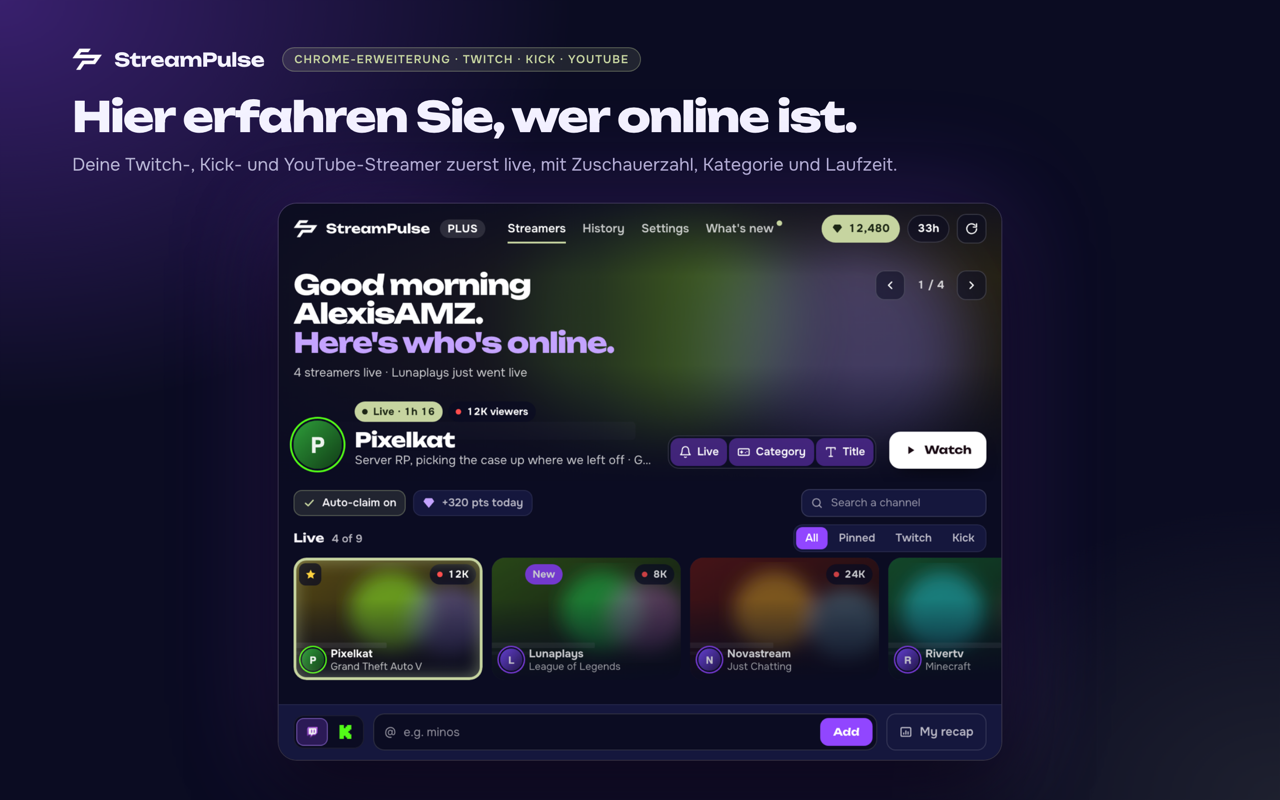
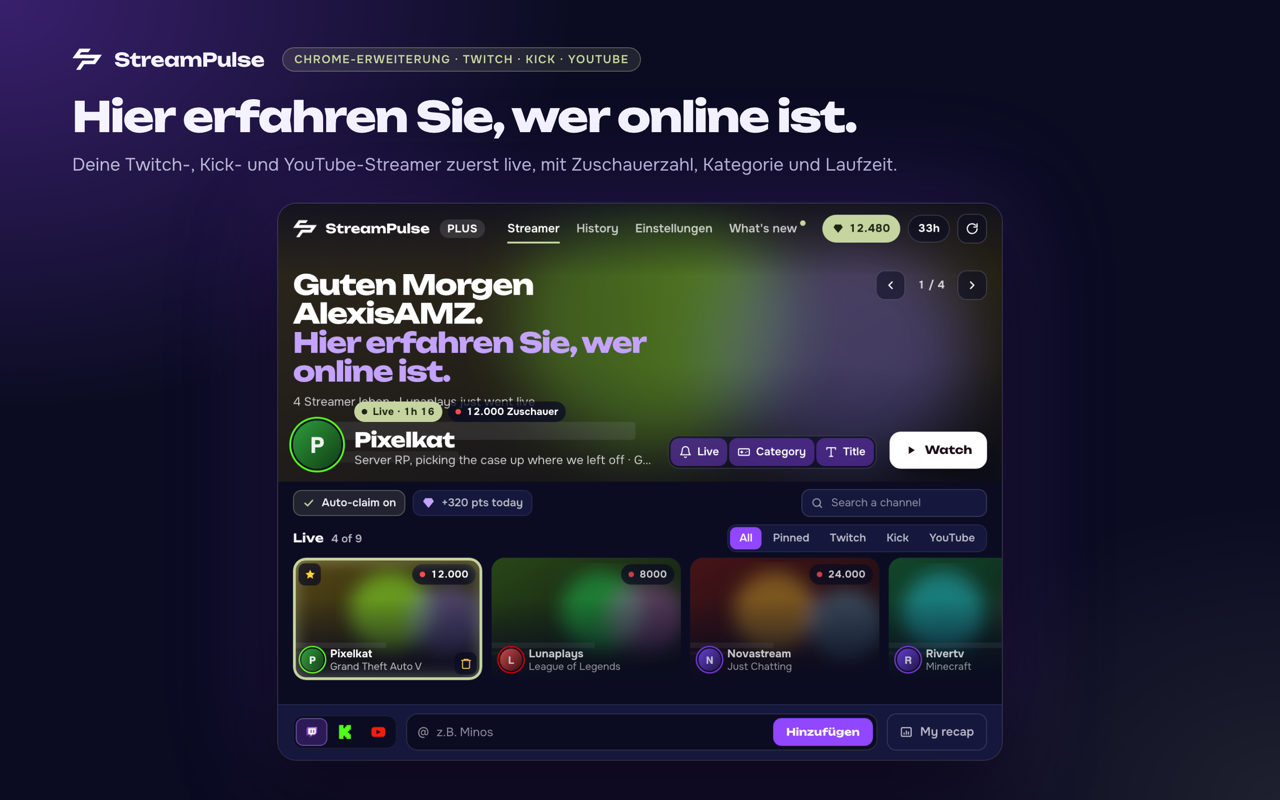
fix: un seul écrivain du badge, et capture du tableau de bord rendue par le banc
Badge
- Deux sources écrivaient chrome.action sans se concerter : le nombre de
  streamers en direct, et la pastille « notes de version non lues ». Cette
  dernière écrivait aussi une chaîne vide quand les notes étaient lues, et
  syncUpdateBadge() tourne à chaque démarrage du service worker : en MV3 il
  redémarre sans cesse, donc le compteur disparaissait à des moments
  arbitraires. Après une mise à jour, le badge affichait 1 quelle que soit la
  réalité
- ActionBadge.render() devient l'unique écrivain. Le direct l'emporte, puisque
  c'est la question à laquelle le badge répond ; la pastille des notes n'est
  montrée que si personne n'est en direct. Le compteur est persisté, pour
  survivre au redémarrage du service worker

Capture 01
- Elle venait de source-dashboard.png, une photo manuelle du 15 septembre :
  ni YouTube dans le filtre, ni son icône dans la barre d'ajout. Elle ne
  pouvait pas se régénérer, buildPopupPage masquant la vue Streamers et
  n'ayant aucune couche de données
- scripts/dev/page-harness.html accepte désormais la popup, donc le vrai code
  tourne avec le faux chrome.* de mock-chrome.js, qui répartit les chaînes sur
  les trois plateformes. La capture suit le code au lieu de figer une photo
- En mode store=1, le banc retire le lecteur player.kick.com que la popup monte
  en plein cadre : une fiche est du matériel public, le direct d'une vraie
  chaîne n'y a pas sa place. Vérifié après coup, la page ne charge plus aucune
  source externe
[…]

diff --git a/js/background.js b/js/background.js
@@ -2166,6 +2166,11 @@ async function resolveChannelDisplayName(channel) {
   return formatHandleForDisplay("twitch", channel);
 }
 
+/** Cle du dernier nombre de streamers en direct, relu apres un redemarrage. */
+const BADGE_LIVE_COUNT_KEY = "streampulse:badgeLiveCount";
+/** Violet Twitch, comme la pastille inline des notes dans la popup. */
+const BADGE_COLOR_UPDATE = "#9146ff";
+
 class ActionBadge {
   static formatBadgeCount(count) {
     if (!Number.isFinite(count) || count <= 0) {
@@ -2206,12 +2211,49 @@ class ActionBadge {
   }
 
   static async update(liveCount, preferences = null) {
+    // Le compteur survit aux redemarrages du service worker : sans lui, le
+    // rendu declenche par une autre source (notes de version, demarrage)
+    // n'aurait aucun moyen de savoir combien de streamers sont en direct et
+    // effacerait le badge.
+    try {
+      await chrome.storage.local.set({ [BADGE_LIVE_COUNT_KEY]: liveCount });
+    } catch { /* le rendu retombera sur 0 */ }
+    await this.render(preferences);
+  }
+
+  /**
+   * Unique ecrivain du badge. Deux sources veulent l'ecrire : le nombre de
+   * streamers en direct et la pastille « notes de version non lues ». Elles
+   * s'ecrasaient mutuellement, et syncUpdateBadge() tournant a chaque
+   * demarrage du service worker, le compteur disparaissait a des moments
+   * arbitraires. Le direct l'emporte, puisque c'est la question a laquelle le
+   * badge repond ; la pastille des notes n'apparait que quand personne n'est
+   * en direct.
+   */
+  static async render(preferences = null) {
     const prefs = preferences || (await PreferenceStore.get());
+    let stored = {};
+    try {
+      stored = await chrome.storage.local.get([BADGE_LIVE_COUNT_KEY, "patchNotesUnread"]);
+    } catch { /* valeurs par defaut ci-dessous */ }
+    const liveCount = Number(stored[BADGE_LIVE_COUNT_KEY]) || 0;
     if (liveCount > 0) {
       await this.setLive(liveCount, prefs);
-    } else {
-      await this.clear(prefs);
+      return;
     }
+    if (stored.patchNotesUnread) {
+      try {
+        await chrome.action.setBadgeText({ text: "1" });
+        await chrome.action.setBadgeBackgroundColor({ color: BADGE_COLOR_UPDATE });
+        await chrome.action.setTitle({
+          title: translateWithPrefs(prefs, "background.badge.idle"),
+        });
+      } catch (error) {
+        console.warn("Badge update marker failed:", error.message);
+      }
+      return;
+    }
+    await this.clear(prefs);
   }
 }
 
@@ -2715,13 +2757,7 @@ let initDone = false;
 // popup, pose a chaque mise a jour, retire quand les notes de version sont
 // ouvertes. Violet Twitch, comme la pastille inline des notes dans la popup.
 async function syncUpdateBadge() {
-  try {
-    const { patchNotesUnread } = await chrome.storage.local.get("patchNotesUnread");
-    await chrome.action.setBadgeBackgroundColor({ color: "#9146ff" });
-    await chrome.action.setBadgeText({ text: patchNotesUnread ? "1" : "" });
-  } catch (error) {
-    console.warn("Failed to sync update badge:", error.message);
-  }
+  await ActionBadge.render();
 }
 
 async function openOnboarding(mode = "") {

diff --git a/scripts/dev/page-harness.html b/scripts/dev/page-harness.html
@@ -36,6 +36,19 @@
         document.head.append(style);
       }
 
+      // ?store=1 : une fiche de store est du materiel public. Le popup monte le
+      // vrai lecteur player.kick.com en plein cadre (Kick n'expose aucune
+      // vignette), ce qui ferait entrer le direct d'une vraie chaine dans la
+      // capture. On le retire ici, dans le banc seulement : le fond retombe sur
+      // l'avatar pre-floute, comme quand aucune image n'est disponible.
+      if (params.get("store") === "1") {
+        const dropKickPlayer = () => {
+          document.querySelectorAll('iframe[src*="player.kick.com"]').forEach((f) => f.remove());
+        };
+        dropKickPlayer();
+        new MutationObserver(dropKickPlayer).observe(document.body, { childList: true, subtree: true });
+      }
+
       const step = Number(params.get("step") || 0);
       if (page === "onboarding" && step > 0) {
         await new Promise((resolve) => setTimeout(resolve, 600));
